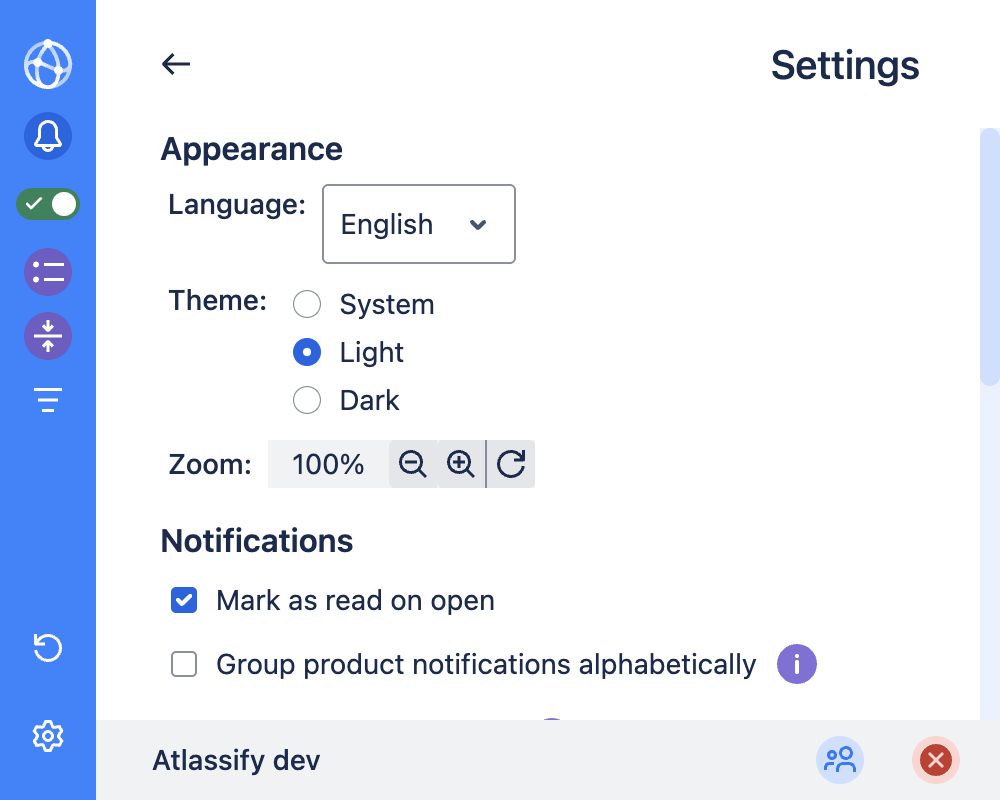
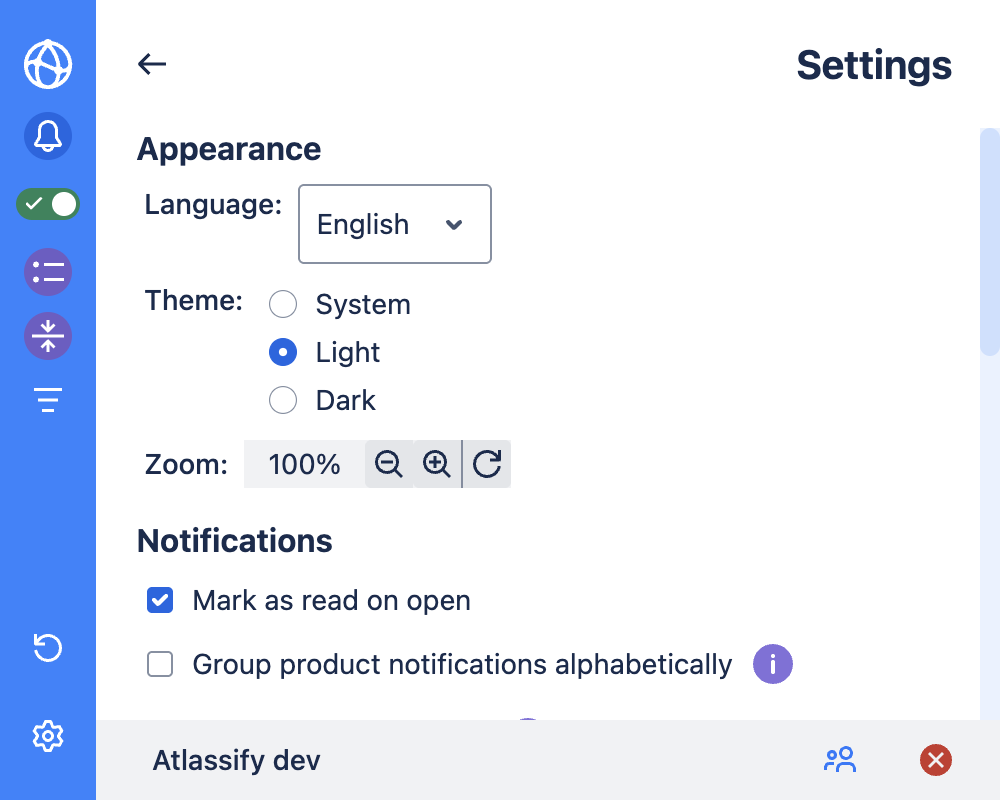
refactor: adjust margins

diff --git a/src/renderer/components/primitives/Header.tsx b/src/renderer/components/primitives/Header.tsx
@@ -22,8 +22,8 @@ export const Header: FC<IHeader> = (props: IHeader) => {
   return (
     <Box
       paddingBlock="space.200"
-      paddingInlineEnd="space.500"
-      paddingInlineStart="space.300"
+      paddingInlineEnd="space.300"
+      paddingInlineStart="space.150"
     >
       <Inline alignBlock="center" grow="fill" spread="space-between">
         <Tooltip content="Go back" position="right">

diff --git a/src/renderer/routes/Settings.tsx b/src/renderer/routes/Settings.tsx
@@ -21,7 +21,7 @@ export const SettingsRoute: FC = () => {
       <Header fetchOnBack>{t('settings.title')}</Header>
 
       <Contents>
-        <Box paddingBlockEnd="space.200" paddingInline="space.400">
+        <Box paddingBlockEnd="space.200" paddingInline="space.250">
           <Stack space="space.200">
             <AppearanceSettings />
             <NotificationSettings />

diff --git a/src/renderer/routes/Login.tsx b/src/renderer/routes/Login.tsx
@@ -78,7 +78,7 @@ export const LoginRoute: FC = () => {
         {({ formProps, submitting }) => (
           <>
             <Contents>
-              <Box paddingInline="space.400">
+              <Box paddingInline="space.250">
                 <Box>
                   {isDuplicateUsername && (
                     <ErrorMessage>{t('login.duplicate_username')}</ErrorMessage>

diff --git a/src/renderer/routes/Filters.tsx b/src/renderer/routes/Filters.tsx
@@ -28,7 +28,7 @@ export const FiltersRoute: FC = () => {
       <Header fetchOnBack={true}>{t('filters.title')}</Header>
 
       <Contents>
-        <Box paddingInlineStart="space.400">
+        <Box paddingBlockEnd="space.200" paddingInlineStart="space.250">
           <Inline space="space.200">
             <Stack space="space.200">
               <FilterSection

diff --git a/src/renderer/routes/Accounts.tsx b/src/renderer/routes/Accounts.tsx
@@ -42,7 +42,7 @@ export const AccountsRoute: FC = () => {
 
   const boxStyles = xcss({
     borderRadius: 'border.radius.200',
-    marginInline: 'space.400',
+    marginInline: 'space.250',
   });
 
   return (
